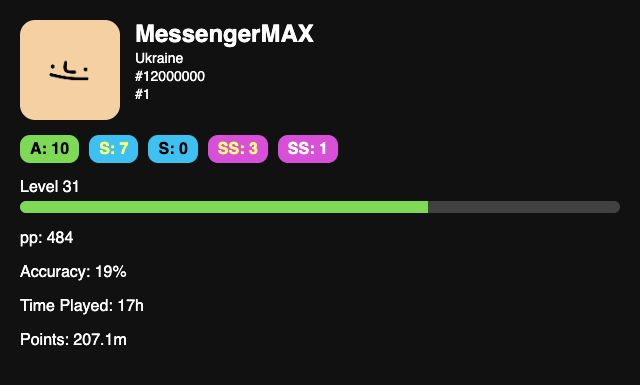
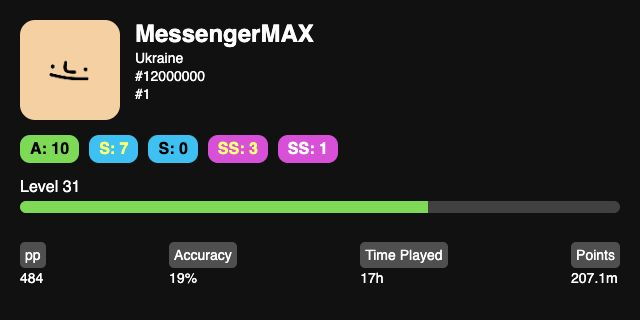
v1.3.2 styles
i improved bottom box styles

diff --git a/src/templates/userCard.css b/src/templates/userCard.css
@@ -77,8 +77,16 @@
   justify-content: space-between;
   margin-top: 15px;
   font-size: 14px;
+  flex-direction: row;
 }
 
-/* .yellow{
-  color: rgb(255, 255, 163);
-} */
+.statTitle{
+  background-color: #4f4f4f;
+  padding: 5px;
+  border-radius: 5px;
+}
+.bottomBox p {
+  display: flex;
+  gap: 2px;
+  flex-direction: column;
+}
